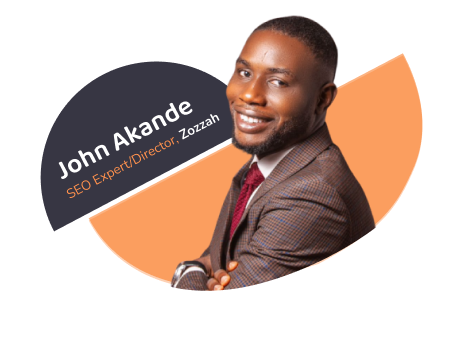
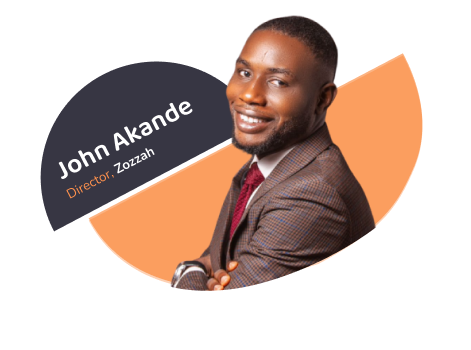
Update speaker introductions for clarity and conciseness; adjust margin in the Webinar component.

Changed region(s): [[0.1486, 0.3143, 0.4756, 0.5714]]

diff --git a/src/webinar/Webinar.jsx b/src/webinar/Webinar.jsx
@@ -16,12 +16,12 @@ const speakers = [
   {
     id: 3,
     image: john,
-    intro: 'John Akande, Director of Zozzah, is a renowned SEO expert and growth strategist recognized for delivering exceptional results. With nearly a decade of experience, he empowers businesses across sectors (B2B, B2C, B2G) to achieve measurable growth through data-driven strategies, automation, and innovative web solutions (WordPress) tailored for real estate companies.',
+    intro: 'ohn Akande, Director of Zozzah, is a renowned SEO expert and growth strategist recognized for delivering exceptional results. With nearly a decade of experience, he empowers businesses across sectors (B2B, B2C, B2G) to achieve measurable growth through data-driven strategies, automation and innovative web solutions.',
   },
   {
     id: 2,
     image: stephen,
-    intro: 'Stephen Okon is a highly skilled freelancer specializing in Scientific Research Writing and Software Development (Python, JavaScript). With over 250 international clients and experience consulting for over 1000 students, he excels in client communication, negotiation, and delivering exceptional results in the gig economy.'
+    intro: 'Stephen Okon is a highly skilled freelancer specializing in Scientific Research Writing and Software Development (Python, JavaScript). With over 3 years meeting specialised needs of multiple international clients across diverse fields and experience consulting with research students within and beyond Africa, he excels in client communication, negotiation, and delivering exceptional results in the gig economy.'
   },
   {
     id: 1,
@@ -168,7 +168,7 @@ const Webinar = () => {
           className="lg:w-full my-10 hidden md:flex md:w-[80%]"
         />
       </section>
-      <motion.section className="flex flex-col my-20 ">
+      <motion.section className="flex flex-col mb-16">
         <h2 className="text-[30px] md:text-[40px] my-8 font-extrabold lg:self-start add-bg">Speakers</h2>
         <motion.section
           initial={{ opacity: 0, x: "-100%" }}
